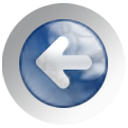
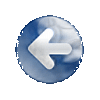
Feature: Added a back home link

diff --git a/pages/commit.md b/pages/commit.md
@@ -1,10 +1,13 @@
 # <center>Commit</center>
+
 Similar to saving a file, a commit is a change to one or more files in your branch. Git assigns each commit a unique ID, called a SHA or hash, that tracks:
 
-* The specific changes
-* When the changes were made
-* Who created the changes
+- The specific changes
+- When the changes were made
+- Who created the changes
 
 When you make a commit, you must include a commit message that briefly describes the changes. You can also add a co-author on any commits you collaborate on. Example:
 
 `git commit -m 'Task: Updated README.md'`
+
+<a href="../README.md" >![back](/images/Back.png)</a>

diff --git a/pages/checkout.md b/pages/checkout.md
@@ -1,6 +1,11 @@
 # <center>Checkout</center>
+
 You can use `git checkout` on the command line to create a new branch, change your current working branch to a different branch, or even to switch to a different version of a file from a different branch with:
+
 ```bash
 git checkout [branchname] [path to file]
 ```
+
 The **checkout** action updates all or part of the working tree with a tree object or blob from the object database, and updates the index and HEAD if the whole working tree is pointing to a new branch.
+
+<a href="../README.md" >![back](/images/Back.png)</a>

diff --git a/pages/fork.md b/pages/fork.md
@@ -1,6 +1,9 @@
 # <center>Fork</center>
+
 A **fork** is a copy of a repository. Forking a repository allows you to freely experiment with changes without affecting the original project.
 
 You can fork a repo on GitHub. On the upper right corner, simply click **Fork**.
 
 You can also create a local clone to your fork. Just follow the instructions to the [clone](https://github.com/mohamedshabarek/miniProject1/blob/master/pages/clone.md) section!
+
+<a href="../README.md" >![back](/images/Back.png)</a>

diff --git a/pages/merge.md b/pages/merge.md
@@ -1,2 +1,5 @@
 # <center>Merge</center>
+
 Merging takes the changes from one branch (in the same repository or from a fork), and applies them into another. This often happens as a "pull request" (which can be thought of as a request to merge), or via the command line. A merge can be done through a pull request via the GitHub.com web interface if there are no conflicting changes, or can always be done via the command line.
+
+<a href="../README.md" >![back](/images/Back.png)</a>

diff --git a/pages/branch.md b/pages/branch.md
@@ -1,4 +1,7 @@
 # <center>Branch</center>
+
 **Branches** are used to isolate development work without affecting other branches in the repo.
 After finishing work in a branch, you can merge that branch into other branches using a pull request.
 Branches are useful in case of messing up. Anything done on a branch will not affect the default, or master, branch.
+
+<a href="../README.md" >![back](/images/Back.png)</a>

diff --git a/pages/master.md b/pages/master.md
@@ -1,4 +1,5 @@
 # <center>Master Branch</center>
+
 The default development branch. Whenever you create a Git repository, a branch named "master" is created, and becomes the active branch. In most cases, this contains the local development, though that is purely by convention and is not required.
 
-
+<a href="../README.md" >![back](/images/Back.png)</a>

diff --git a/pages/push.md b/pages/push.md
@@ -1,2 +1,5 @@
 # <center>Push</center>
+
 To push means to send your committed changes to a remote repository on GitHub.com. For instance, if you change something locally, you can push those changes so that others may access them.
+
+<a href="../README.md" >![back](/images/Back.png)</a>

diff --git a/pages/remote.md b/pages/remote.md
@@ -1,2 +1,5 @@
 # <center>Remote</center>
+
 This is the version of a repository or branch that is hosted on a server, most likely GitHub.com. Remote versions can be connected to local clones so that changes can be synced.
+
+<a href="../README.md" >![back](/images/Back.png)</a>

diff --git a/pages/status.md b/pages/status.md
@@ -1,2 +1,5 @@
 # <center>Status</center>
+
 A visual representation within a pull request that your commits meet the conditions set for the repository you're contributing to.
+
+<a href="../README.md" >![back](/images/Back.png)</a>

diff --git a/pages/pull.md b/pages/pull.md
@@ -1,1 +1,3 @@
 # <center>Pull</center>
+
+<a href="../README.md" >![back](/images/Back.png)</a>
